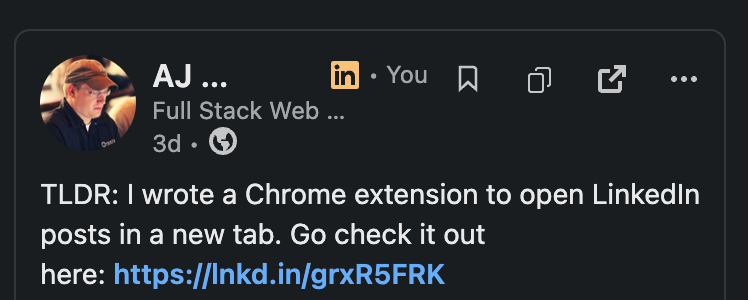
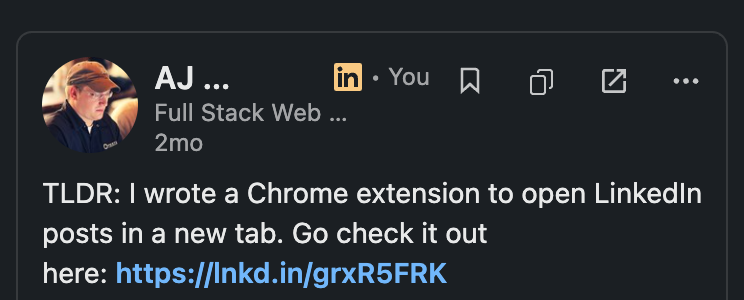
docs: refresh screenshots for v1.3.0; list supported pages
- Recapture the feed, hover, saved and header-card shots (dark, 2×) so
  they show the lighter Open glyph.
- Rename screenshot-suggested → screenshot-social-proof (a "Followed by"
  card; no Suggested card was available) and add a company Posts page
  shot.
- Features: "Works on" now lists every supported page; Copy link notes
  it's usually, not always, an lnkd.in link. Hover caption drops the
  tooltip (the shot shows only the hover circle).
- docs/README.md: index the actual images.

diff --git a/README.md b/README.md
@@ -18,9 +18,9 @@ new tab**, cloned from the post's own controls:
 
 ![The Post Actions toolbar next to a post's … menu in dark mode](docs/screenshot-feed.png)
 
-Hover shows LinkedIn's native tooltip and hover circle:
+Hover shows LinkedIn's native hover circle:
 
-![The Save button hovered, showing LinkedIn's "Save this post" tooltip](docs/screenshot-hover.png)
+![The Save button hovered, showing LinkedIn's native hover circle](docs/screenshot-hover.png)
 
 Saved — the bookmark fills and stays filled (click again to unsave):
 
@@ -31,9 +31,14 @@ Because they trigger LinkedIn's own actions, Save and Copy surface LinkedIn's
 
 ![LinkedIn's native "Post saved." and "Link copied to clipboard." notification toasts](docs/screenshot-notifications.png)
 
-Works on every kind of post, including "Suggested" cards:
+Works on cards with a header row, like social-proof ("Followed by …") and
+"Suggested" cards:
 
-![The toolbar on a Suggested post card](docs/screenshot-suggested.png)
+![The toolbar on a "Followed by" social-proof card](docs/screenshot-social-proof.png)
+
+…and on company Posts pages, which use LinkedIn's older layout:
+
+![The toolbar on a post on a company's Posts page](docs/screenshot-company.png)
 
 ## Why
 
@@ -50,7 +55,8 @@ without breaking your scroll.
   stays filled; click again to unsave. On a post's own page it shows the
   already-saved state on load.
 - **Copy link** — triggers LinkedIn's own **Copy link action** to copy the post's
-  canonical link (the same `lnkd.in/…` short link as *… → Copy link to post*).
+  canonical link (the same link as *… → Copy link to post* — usually an
+  `lnkd.in/…` short link).
 - **Open in a new tab** — opens the post on its own page. **Background** tab by
   default; hold **⌘/Ctrl** to do the opposite for one click. Hidden on a post's
   own page, since you're already there.
@@ -59,9 +65,11 @@ without breaking your scroll.
   the in-app dark/light toggle live, no reload). And because Save and Copy fire
   LinkedIn's own menu actions, you get the real behavior — the menu is just kept
   hidden the whole time, so nothing visibly pops up.
-- **Works across feed layouts** — home feed (both sorts), profiles, activity
-  pages, reposts, and social-proof cards ("X likes this"), in any UI language
-  (controls are matched by stable icon, not English labels).
+- **Works on** — the home feed (both sorts), profiles, activity tabs (Posts,
+  Comments, Reactions — yours or anyone's), search results and hashtags, groups,
+  company/brand Posts pages, Saved posts, and a post's own page; including
+  reposts and social-proof cards ("X likes this"). Any UI language — controls
+  are matched by stable icon, not English labels.
 - **Private & light** — one low-risk permission (`storage`, for your preference),
   **no host permissions**, and the extension makes **no network requests of its
   own**.

diff --git a/docs/README.md b/docs/README.md
@@ -1,10 +1,12 @@
 # Screenshots
 
-Images used by the main [`README.md`](../README.md):
+Images used by the main [`README.md`](../README.md) — dark mode, 2× captures:
 
 | File | Shows |
 | --- | --- |
-| `screenshot-feed.png` | The same post in light + dark, icon next to the `…` menu. |
-| `screenshot-hover.png` | The icon's hover state (focus ring + tooltip). |
-| `screenshot-options.png` | The settings popup (background vs foreground tab). |
-| `screenshot-permissions.png` | Extension details — site access limited to `linkedin.com`. |
+| `screenshot-feed.png` | The toolbar (Save, Copy link, Open) next to a post's `…` menu. |
+| `screenshot-hover.png` | Save hovered — LinkedIn's native hover circle. |
+| `screenshot-saved.png` | Save after saving — the bookmark filled. |
+| `screenshot-notifications.png` | LinkedIn's native "Post saved." / "Link copied" toasts. |
+| `screenshot-social-proof.png` | The toolbar on a header-row card ("Followed by …"). |
+| `screenshot-company.png` | The toolbar on a company Posts page (older layout). |
